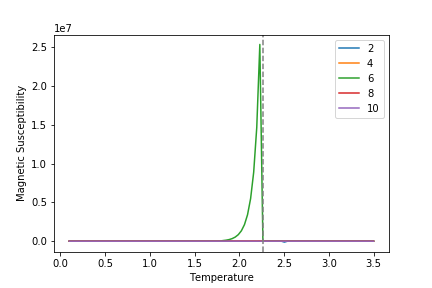
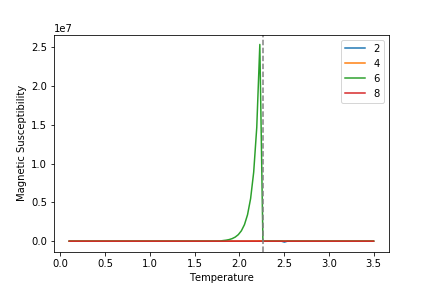
third commit

Changed region(s): [[0.1505, 0.8125, 0.8727, 0.8438], [0.7824, 0.1562, 0.9028, 0.4375], [0.7824, 0.1562, 0.8125, 0.2812]]

diff --git a/free_energy.py b/free_energy.py
@@ -15,20 +15,24 @@ def compute_free_energy_temps(dim,Ds,h,temperatures,compute_error=True):
             beta = 1/temp
             a = isingtpf(dim,beta,h)
             converg_criteria = 10**(-6)
+            if dim == 2:
+                Nplus = 4.
+            elif dim == 3:
+                Nplus = 6.
             
             i = 0
             Z = ncon([a,a,a,a],[[7,5,3,1],[3,6,7,2],[8,1,4,5],[4,2,8,6]])
-            f_i = -temp*(np.log(Z))/(4)
+            f_i = -temp*(np.log(Z))/(Nplus)
             C = 0
             N = 1
     
             while True:
                 a, a, maxAA = coarse_graining_step(dim,a,D=D)
-                C = np.log(maxAA)+4*C #arreglar para 3D
-                N *= 4.
+                C = np.log(maxAA)+Nplus*C #arreglar para 3D
+                N *= Nplus.
                 if i >= 10:
                     Z = ncon([a,a,a,a],[[7,5,3,1],[3,6,7,2],[8,1,4,5],[4,2,8,6]])
-                    f = -temp*(np.log(Z)+4*C)/(4*N)
+                    f = -temp*(np.log(Z)+Nplus*C)/(Nplus*N)
                     delta_f = np.abs((f - f_i)/f)
                     #print delta_f
                     if delta_f <= converg_criteria:
@@ -240,22 +244,30 @@ Ds = [2,4,6,8,10]
 
 h = 10**-10
 temperatures = np.linspace(0.6,3.5,7000)
-Ds = [2,4,6,10]
+Ds = [2,4]
 
-us, cs = compute_internal_energy_and_heatc(2,Ds,h,temperatures)
+#us, cs = compute_internal_energy_and_heatc(2,Ds,h,temperatures)
 
+#for D in Ds:
+#    plt.plot(temperatures[1:],us[D],label=str(D))
+#plt.axvline(x=2.269185,linestyle='--')
+#plt.xlabel('Temperature')
+#plt.ylabel('Internal energy per site')
+#plt.legend()
+#plt.savefig('internalenergy2d.png')
+#plt.show()
+
+cs2 = {}
 for D in Ds:
-    plt.plot(temperatures[1:],us[D],label=str(D))
+    cs2[D] = np.zeros(temperatures[2:].size)
+    for i in range(cs[D].size):
+        if cs[D][i] > 5 or cs[D][i] < 0:
+            cs2[D][i] = None
+        else:
+            cs2[D][i] = cs[D][i]
+    plt.plot(temperatures[2:],cs2[D],label=str(D))
 plt.axvline(x=2.269185,linestyle='--')
-plt.xlabel('Temperature')
-plt.ylabel('Internal energy per site')
-plt.legend()
-plt.savefig('internalenergy2d.png')
-plt.show()
-
-for D in Ds:
-    plt.plot(temperatures[2:],cs[D],label=str(D))
-plt.axvline(x=2.269185,linestyle='--')
+#plt.ylim(-1,5)
 plt.xlabel('Temperature')
 plt.ylabel('Heat capacity')
 plt.legend()

diff --git a/magnetization.py b/magnetization.py
@@ -111,15 +111,11 @@ def write_results(results,xaxis,docu_name):
 	
 
 
-#h = 10**(-10)
-#temperatures = np.linspace(0.1,3.5,100)
-#Ds = [3]
-#
-#results3, error = compute_magnetization_temps(3,Ds,h,temperatures)
-#write_results(results,temperatures,'magnetization2d')
-#write_results(error,temperatures,'magnetization2d_errors')
+h = 10**(-10)
+temperatures = np.linspace(0.7,5.5,100)
+Ds = [2,3,4]
 
-#results, error = compute_magnetization_temps(2,Ds,h,temperatures)
+results, error = compute_magnetization_temps(3,Ds,h,temperatures)
 #write_results(results,temperatures,'magnetization2d')
 #write_results(error,temperatures,'magnetization2d_errors')
 
@@ -131,16 +127,16 @@ def write_results(results,xaxis,docu_name):
 #plt.legend()
 #plt.savefig('magnetization2derrorcomplete.png')
 #plt.show()
-#
-#for D in Ds:
-#	plt.plot(temperatures,results3[D],label=str(D))	
-##plt.axvline(x=2./np.log(1+np.sqrt(2)),linestyle='--',color='grey')
-#plt.axvline(x=4.5,linestyle='--',color='grey')
-#plt.xlabel('Temperature')
-#plt.ylabel('Magnetization per site')
-#plt.legend()
-##plt.savefig('magnetization2d.png')
-#plt.show()
+
+for D in Ds:
+	plt.plot(temperatures,results3[D],label=str(D))	
+#plt.axvline(x=2./np.log(1+np.sqrt(2)),linestyle='--',color='grey')
+plt.axvline(x=4.511544,linestyle='--',color='grey')
+plt.xlabel('Temperature')
+plt.ylabel('Magnetization per site')
+plt.legend()
+plt.savefig('magnetization3d.png')
+plt.show()
 
 
 #h = 10**(-10)
@@ -162,19 +158,19 @@ def write_results(results,xaxis,docu_name):
 
 
 
-
-h = 10**(-10)
-temperatures = np.linspace(0.1,3.5,100)
-Ds = [2,4,6,8,10]
-susc = compute_susceptibility(2,Ds,h,temperatures)
-
-for D in Ds:
-    plt.plot(temperatures,susc[D],label=str(D))
-plt.axvline(x=2./np.log(1+np.sqrt(2)),linestyle='--',color='grey')
-plt.xlabel('Temperature')
-plt.ylabel('Magnetic Susceptibility')
-plt.legend()
-plt.savefig('susc2d.png')
-plt.show()
+#
+#h = 10**(-10)
+#temperatures = np.linspace(0.1,3.5,100)
+#Ds = [2,3,4]
+##susc = compute_susceptibility(2,Ds,h,temperatures)
+#
+#for D in Ds:
+#    plt.plot(temperatures,susc[D],label=str(D))
+##plt.axvline(x=2./np.log(1+np.sqrt(2)),linestyle='--',color='grey')
+#plt.xlabel('Temperature')
+#plt.ylabel('Magnetic Susceptibility')
+#plt.legend()
+#plt.savefig('susc2d.png')
+#plt.show()
 
 
